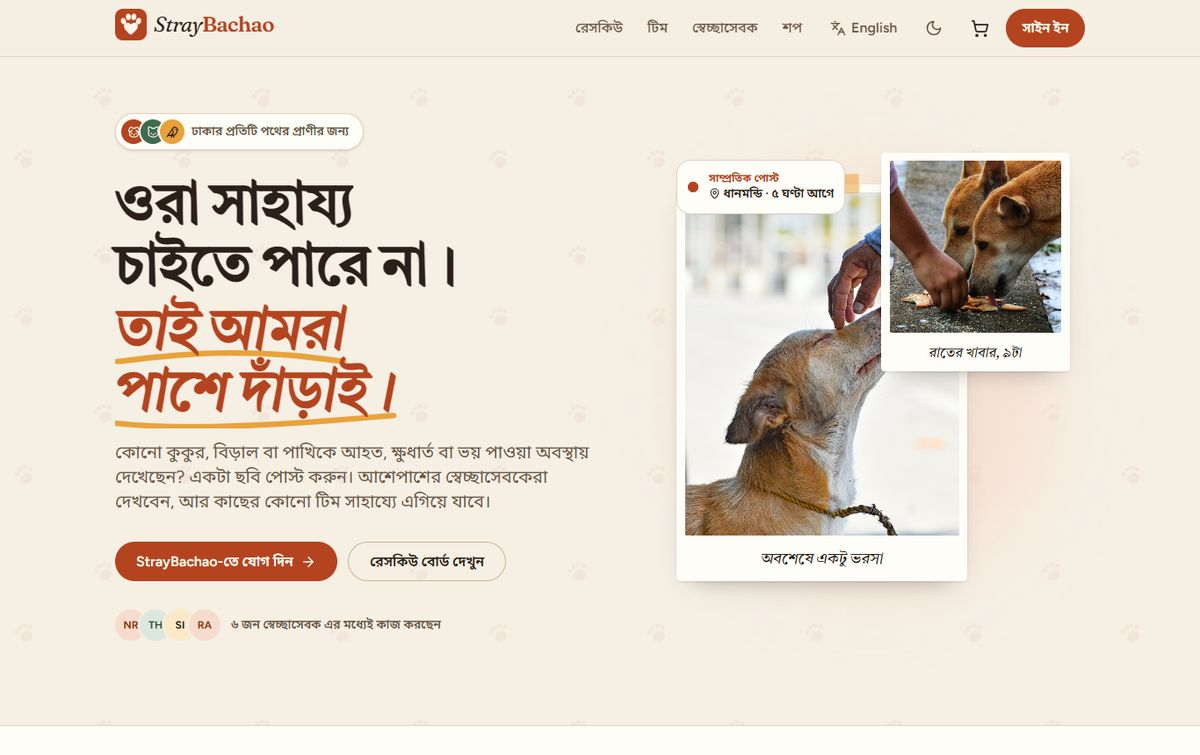
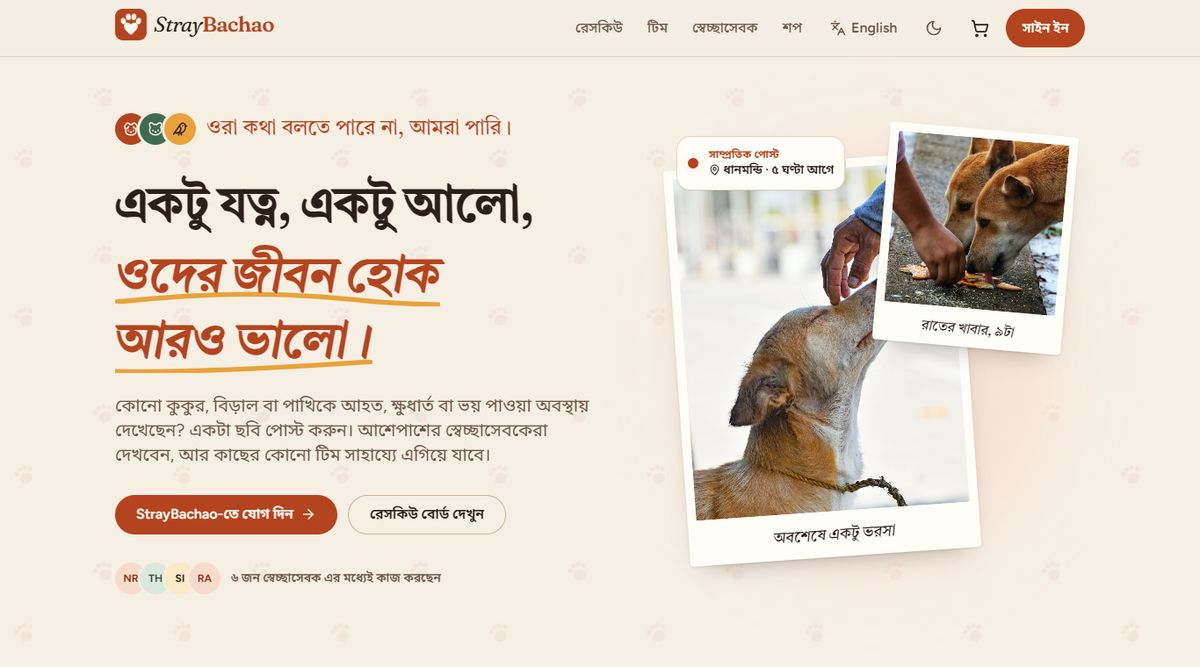
Update hero section

diff --git a/frontend/src/pages/HomePage.jsx b/frontend/src/pages/HomePage.jsx
@@ -49,22 +49,30 @@ function Hero({ stats, latest, faces }) {
   const { t, lang, area, ago } = useLang();
   // Bangla words run wider and taller, so the headline steps down a size
   const size = lang === "bn"
-    ? "text-[2.3rem] leading-[1.3] sm:text-5xl lg:text-[3.4rem]"
-    : "text-[2.6rem] leading-[1.06] sm:text-6xl lg:text-[4.1rem]";
+    ? "text-[2.3rem] leading-[1.35] sm:text-5xl lg:text-[3.5rem]"
+    : "text-[2.35rem] leading-[1.1] sm:text-5xl lg:text-[3.6rem]";
   return (
     <section className="paw-trail relative overflow-hidden">
       <div className="max-w-6xl mx-auto px-4 sm:px-6 pt-10 pb-16 lg:pt-16 lg:pb-24 grid gap-14 lg:grid-cols-[1.08fr_.92fr] items-center">
         <div className="rise flex flex-col items-center text-center lg:items-start lg:text-left">
-          <p className="inline-flex items-center gap-2 rounded-full border border-line bg-card pl-1.5 pr-4 py-1.5 text-sm font-semibold text-ink-2 shadow-sm">
-            <span className="flex -space-x-1.5" aria-hidden="true">
-              <span className="w-7 h-7 rounded-full bg-clay text-on-clay grid place-items-center ring-2 ring-card"><Dog size={15} /></span>
-              <span className="w-7 h-7 rounded-full bg-moss text-on-clay grid place-items-center ring-2 ring-card"><Cat size={15} /></span>
-              <span className="w-7 h-7 rounded-full bg-sun text-[#2B2019] grid place-items-center ring-2 ring-card"><Bird size={15} /></span>
-            </span>
-            {t("landing.kicker")}
-          </p>
+          {/* the motto stays in Bangla in both languages; it is the name's own voice */}
+          <figure className="flex flex-col items-center lg:items-start">
+            <div className="flex flex-col sm:flex-row items-center gap-2 sm:gap-3">
+              <span className="flex -space-x-2 shrink-0" aria-hidden="true">
+                <span className="w-9 h-9 rounded-full bg-clay text-on-clay grid place-items-center ring-[3px] ring-paper"><Dog size={18} /></span>
+                <span className="w-9 h-9 rounded-full bg-moss text-on-clay grid place-items-center ring-[3px] ring-paper"><Cat size={18} /></span>
+                <span className="w-9 h-9 rounded-full bg-sun text-[#2B2019] grid place-items-center ring-[3px] ring-paper"><Bird size={18} /></span>
+              </span>
+              <blockquote lang="bn" className="bn text-[1.3rem] sm:text-2xl leading-snug text-clay whitespace-nowrap">
+                ওরা কথা বলতে পারে না, আমরা পারি।
+              </blockquote>
+            </div>
+            {lang === "en" && (
+              <figcaption className="mt-1 text-sm italic text-ink-2 lg:pl-[5.5rem]">{t("landing.mottoGloss")}</figcaption>
+            )}
+          </figure>
 
-          <h1 className={`mt-6 font-semibold text-balance ${size}`}>
+          <h1 className={`mt-7 font-semibold text-balance ${size}`}>
             <span className="block">{t("landing.title1")}</span>
             <span className="block mt-1 italic text-clay">
               <span className="squiggle">{t("landing.title2")}</span>

diff --git a/frontend/src/pages/Login.jsx b/frontend/src/pages/Login.jsx
@@ -11,7 +11,7 @@ const Login = () => {
   const location = useLocation();
   const [params] = useSearchParams();
   const { backendUrl, checkAuthStatus, isLoggedIn } = useContext(AppContext);
-  const { t, apiError } = useLang();
+  const { t, lang, apiError } = useLang();
 
   const redirectPath = location.state?.from || "/";
 
@@ -95,8 +95,8 @@ const Login = () => {
         <img src="/img/waiting.jpg" alt="" className="absolute inset-0 w-full h-full object-cover" />
         <div className="absolute inset-0 bg-gradient-to-t from-[#1A1411]/90 via-[#1A1411]/30 to-transparent" />
         <div className="absolute bottom-0 p-12 text-[#FFF8F0] max-w-xl">
-          <p className="font-display text-4xl leading-tight">{t("landing.title1")}<br /><span className="italic text-[#F2B659]">{t("landing.title2")}</span></p>
-          <p className="mt-4 text-lg text-[#EADBC8] text-pretty">{t("login.quote")}</p>
+          <p lang="bn" className="bn text-4xl leading-snug">ওরা কথা বলতে পারে না,<br /><span className="text-[#F2B659]">আমরা পারি।</span></p>
+          <p className="mt-4 text-lg text-[#EADBC8] text-pretty">{lang === "en" && <>{t("landing.mottoGloss")} </>}{t("login.quote")}</p>
         </div>
       </aside>
 

diff --git a/frontend/src/i18n/bn.js b/frontend/src/i18n/bn.js
@@ -53,9 +53,8 @@ const bn = {
     photos: 'ছবি:',
   },
   landing: {
-    kicker: 'ঢাকার প্রতিটি পথের প্রাণীর জন্য',
-    title1: 'ওরা সাহায্য চাইতে পারে না।',
-    title2: 'তাই আমরা পাশে দাঁড়াই।',
+    title1: 'একটু যত্ন, একটু আলো,',
+    title2: 'ওদের জীবন হোক আরও ভালো।',
     lead: 'কোনো কুকুর, বিড়াল বা পাখিকে আহত, ক্ষুধার্ত বা ভয় পাওয়া অবস্থায় দেখেছেন? একটা ছবি পোস্ট করুন। আশেপাশের স্বেচ্ছাসেবকেরা দেখবেন, আর কাছের কোনো টিম সাহায্যে এগিয়ে যাবে।',
     join: 'StrayBachao-তে যোগ দিন',
     board: 'রেসকিউ বোর্ড দেখুন',

diff --git a/frontend/src/components/Layout.jsx b/frontend/src/components/Layout.jsx
@@ -243,7 +243,7 @@ function VisitorShell({ children, wide }) {
 }
 
 function Footer({ compact }) {
-  const { t, lang } = useLang();
+  const { t } = useLang();
   return (
     <footer className={`border-t border-line ${compact ? "" : "bg-card"}`}>
       <div className={`max-w-6xl mx-auto px-4 sm:px-6 ${compact ? "py-6" : "py-10"} flex flex-col gap-6 md:flex-row md:items-start md:justify-between`}>
@@ -251,7 +251,7 @@ function Footer({ compact }) {
           <div className="max-w-sm">
             <Wordmark />
             <p className="mt-3 text-ink-2">{t("footer.blurb")}</p>
-            {lang === "bn" && <p className="mt-2 bn text-lg text-ink">ওরা কথা বলতে পারে না, আমরা পারি।</p>}
+            <p lang="bn" className="mt-2 bn text-lg text-clay">ওরা কথা বলতে পারে না, আমরা পারি।</p>
           </div>
         )}
         <nav aria-label={t("nav.footer")} className="flex flex-wrap gap-x-6 gap-y-2 text-ink-2">

diff --git a/frontend/src/i18n/en.js b/frontend/src/i18n/en.js
@@ -60,9 +60,9 @@ const en = {
     photos: 'Photos from',
   },
   landing: {
-    kicker: 'For every stray in Dhaka',
-    title1: "They can't ask for help.",
-    title2: 'So we show up.',
+    title1: 'A little care, a little light,',
+    title2: 'can make their world feel right.',
+    mottoGloss: "They can't speak. We can.",
     lead: "Seen a dog, cat or bird that's hurt, hungry or scared? Post a photo. Volunteers nearby see it, and a team close by goes to help.",
     join: 'Join StrayBachao',
     board: 'See the rescue board',

diff --git a/tools/browser_checks.py b/tools/browser_checks.py
@@ -265,7 +265,7 @@ def main():
         page.click("button[aria-label='বাংলায় দেখুন']")
         page.wait_for_timeout(200)
         check("the language button switches the page to Bangla",
-              page.evaluate("document.documentElement.lang") == "bn" and "ওরা সাহায্য" in page.inner_text("h1"))
+              page.evaluate("document.documentElement.lang") == "bn" and "একটু যত্ন" in page.inner_text("h1"))
         page.evaluate("localStorage.setItem('lang', 'en')")
         page.close()
 

diff --git a/README.md b/README.md
@@ -1,6 +1,8 @@
 # StrayBachao: An Animal Rescue Network
 
-*ওরা সাহায্য চাইতে পারে না। তাই আমরা পাশে দাঁড়াই।* They can't ask for help, so we show up.
+*ওরা কথা বলতে পারে না, আমরা পারি।* They can't speak. We can.
+
+*একটু যত্ন, একটু আলো, ওদের জীবন হোক আরও ভালো।*
 
 StrayBachao connects people who spot a street animal in trouble with volunteers
 nearby. Anyone can post a photo to the rescue board; volunteers form teams by
